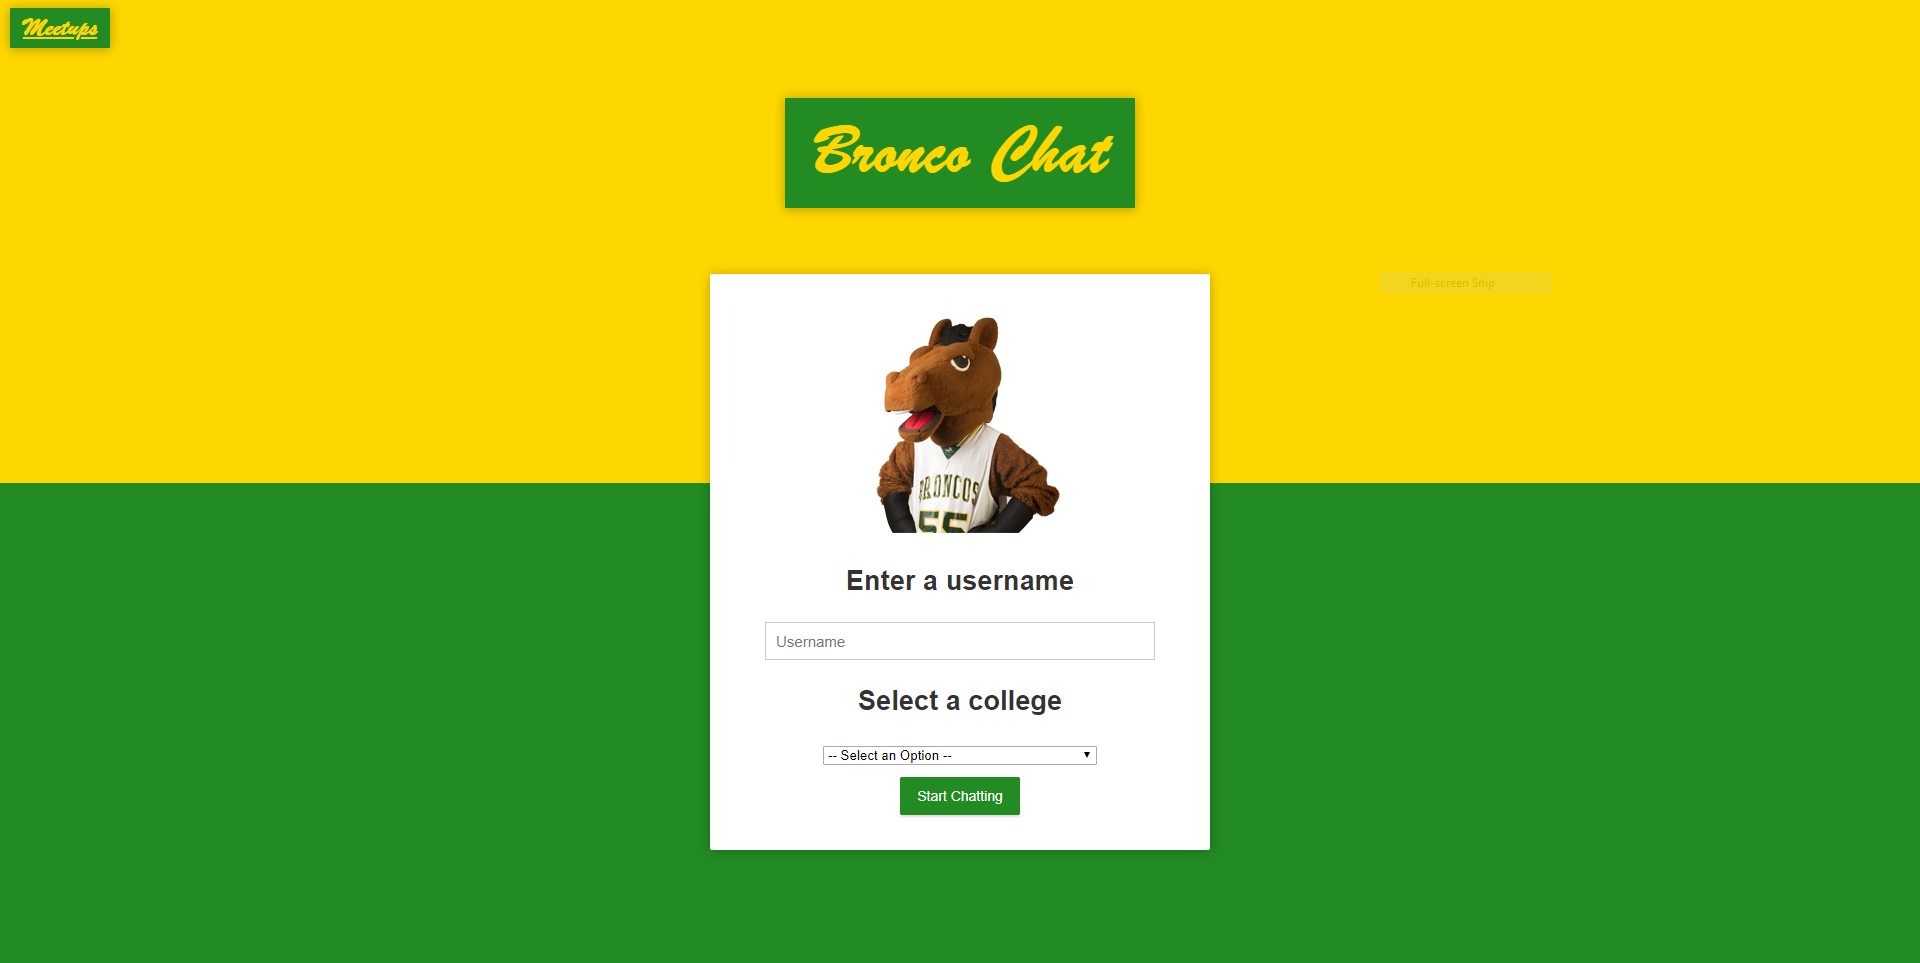
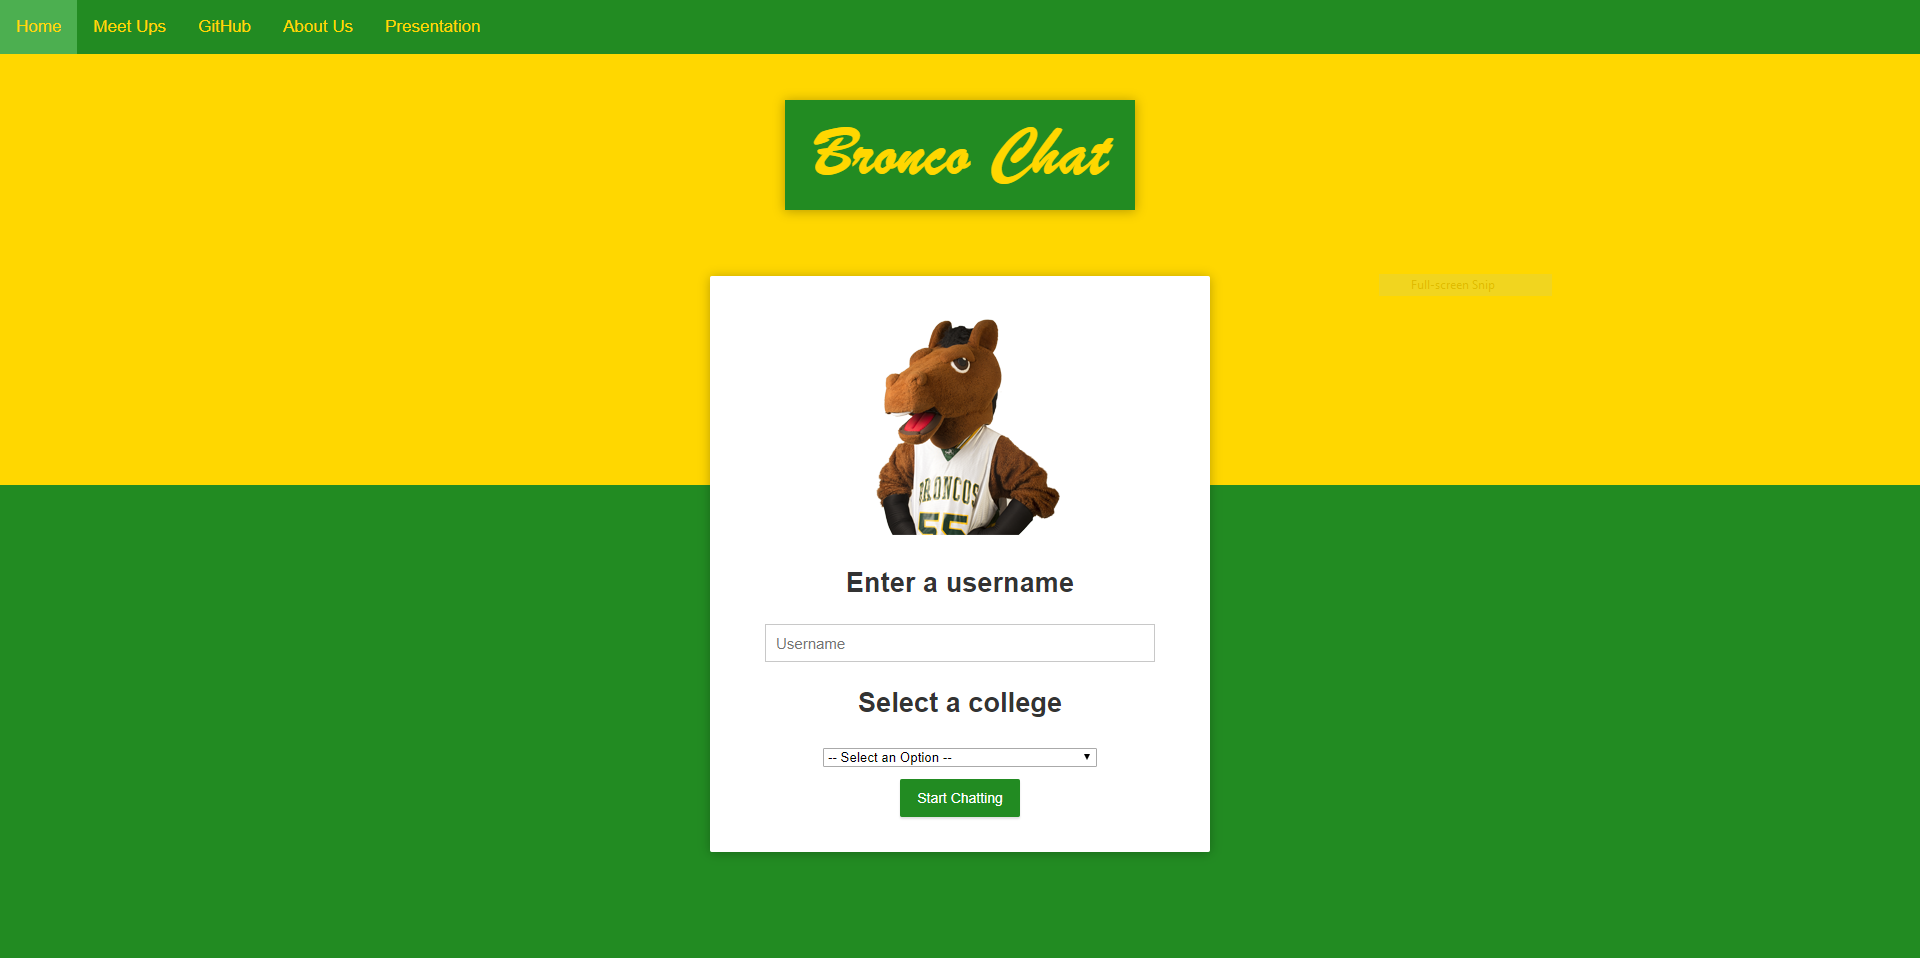
added topnav

diff --git a/src/main/resources/static/meetups.html b/src/main/resources/static/meetups.html
@@ -1,0 +1,62 @@
+<!DOCTYPE html>
+<html>
+	<head>
+		<meta name="viewport" content="width=device-width, initial-scale=1.0, minimum-scale=1.0">
+		<link rel="stylesheet" href="/css/meetups.css" />
+		<title>Meet Ups</title>
+	</head>
+
+<body>
+
+	<div class="topnavs">
+	  <a class="active" href="index.html">Home</a>
+	  <a href="meetups.html">Meet Ups</a>
+	  <a href="https://github.com/CS4800-Team-MAKER/ChatTest">GitHub</a>
+	  <a href="#about">About Us</a>
+	  <a href="https://docs.google.com/presentation/d/16hoy5OqIleoWL_yokoEcL4HXPscrsbv71Asb41t1P8o/edit?usp=sharing">Presentation</a>
+	</div>
+	
+	<div id="container">
+		<div id="header">
+			<h2>Bronco Chat Pomona Meet Ups</h2>
+		</div>
+		<div id="content">
+
+			<table cellpadding="4" cellspacing="0">
+				<!-- Table Head Row -->
+				<tr bgcolor="#DFDFDF">
+					<td align="center">Location</td>
+					<td align="center">Sign Ups</td>
+					<td align="center">Date</td>
+					<td align="center">Additional Comments</td>				
+				</tr>
+				<!-- Table Data Rows -->
+				<tr>
+					<td valign="top"><a href="#">Starbucks</a></td>
+					<td valign="top">10</td>
+					<td valign="top">12/4/19</td>
+					<td valign="top">CS 4800 hang out</td>
+				</tr>
+				<tr>
+					<td valign="top"><a href="#">Carls Jr.</a></td>
+					<td valign="top">14</td>
+					<td valign="top">12/14/19</td>
+					<td valign="top">Bring extra cups</td>
+				</tr>
+				<tr>
+					<td valign="top"><a href="#">Bldg. 8 301</a></td>
+					<td valign="top">6</td>
+					<td valign="top">11/24/19</td>
+					<td valign="top">Club meetup!</td>
+				</tr>
+		        <tr>
+					<td valign="top">Spot an error?</td>
+					<td valign="top"></td>
+					<td valign="top">Contact <a href="#">GitHub</a></td>
+				</tr>
+			</table>
+		</div>
+	</div>
+
+</body>
+</html>

diff --git a/src/main/resources/static/css/meetups.css b/src/main/resources/static/css/meetups.css
@@ -1,0 +1,61 @@
+* {
+    -webkit-box-sizing: border-box;
+    -moz-box-sizing: border-box;
+    box-sizing: border-box;
+}
+
+html,body {
+    height: 100%;
+    overflow: hidden;
+	margin: 0;
+	padding: 0;
+}
+
+.topnavs {
+	background-color: #228B22;
+	overflow: hidden;
+	position: relative;
+}
+
+.topnavs a {
+	float: left;
+	color: #FFD700;
+	text-align: center;
+	padding: 14px 16px;
+	text-decoration: none;
+	font-size: 17px;
+}
+
+.topnavs a:hover {
+	background-color: #ddd;
+	color: green;
+}
+
+.topnavs a.active {
+	background-color: #4CAF50;
+	color: gold;
+}
+/*
+body {
+    margin: 0;
+    padding: 0;
+    font-weight: 400;
+    font-family: "Helvetica Neue", Helvetica, Arial, sans-serif;
+    font-size: 1rem;
+    line-height: 1.58;
+    color: #333;
+    background-color: #228B22;
+    height: 100%;
+}
+
+body:before {
+    height: 50%;
+    width: 100%;
+    position: relative;
+    top: 0;
+    left: 0;
+    background: #FFD700;
+    content: "";
+    z-index: 0;
+}
+*/

diff --git a/src/main/resources/static/index.html b/src/main/resources/static/index.html
@@ -17,10 +17,19 @@
 		</div>
 	</div>
 	
+	<!--
 	<div id="meetups-page">
 		<div class="meetups-page-container">
 		<h1 class="title"><a href="https://www.cpp.edu/common/resources/img/billy_bronco_top10.png"style="color: #FFD700">Meetups</a></h1>
 		</div>
+	</div>
+	-->
+	<div class="topnav">
+	  <a class="active" href="index.html">Home</a>
+	  <a href="meetups.html">Meet Ups</a>
+	  <a href="https://github.com/CS4800-Team-MAKER/ChatTest">GitHub</a>
+	  <a href="#about">About Us</a>
+	  <a href="https://docs.google.com/presentation/d/16hoy5OqIleoWL_yokoEcL4HXPscrsbv71Asb41t1P8o/edit?usp=sharing">Presentation</a>
 	</div>
 
 

diff --git a/target/classes/static/index.html b/target/classes/static/index.html
@@ -17,10 +17,19 @@
 		</div>
 	</div>
 	
+	<!--
 	<div id="meetups-page">
 		<div class="meetups-page-container">
 		<h1 class="title"><a href="https://www.cpp.edu/common/resources/img/billy_bronco_top10.png"style="color: #FFD700">Meetups</a></h1>
 		</div>
+	</div>
+	-->
+	<div class="topnav">
+	  <a class="active" href="index.html">Home</a>
+	  <a href="meetups.html">Meet Ups</a>
+	  <a href="https://github.com/CS4800-Team-MAKER/ChatTest">GitHub</a>
+	  <a href="#about">About Us</a>
+	  <a href="https://docs.google.com/presentation/d/16hoy5OqIleoWL_yokoEcL4HXPscrsbv71Asb41t1P8o/edit?usp=sharing">Presentation</a>
 	</div>
 
 

diff --git a/src/main/resources/static/css/main.css b/src/main/resources/static/css/main.css
@@ -61,6 +61,33 @@ body:before {
     z-index: 0;
 }
 
+.topnav {
+	background-color: #228B22;
+	overflow: hidden;
+	position: relative;
+	margin-top: -210px;
+
+}
+
+.topnav a {
+	float: left;
+	color: #FFD700;
+	text-align: center;
+	padding: 14px 16px;
+	text-decoration: none;
+	font-size: 17px;
+}
+
+.topnav a:hover {
+	background-color: #ddd;
+	color: green;
+}
+
+.topnav a.active {
+	background-color: #4CAF50;
+	color: gold;
+}
+
 .clearfix:after {
     display: block;
     content: "";

diff --git a/target/classes/static/css/main.css b/target/classes/static/css/main.css
@@ -61,6 +61,33 @@ body:before {
     z-index: 0;
 }
 
+.topnav {
+	background-color: #228B22;
+	overflow: hidden;
+	position: relative;
+	margin-top: -210px;
+
+}
+
+.topnav a {
+	float: left;
+	color: #FFD700;
+	text-align: center;
+	padding: 14px 16px;
+	text-decoration: none;
+	font-size: 17px;
+}
+
+.topnav a:hover {
+	background-color: #ddd;
+	color: green;
+}
+
+.topnav a.active {
+	background-color: #4CAF50;
+	color: gold;
+}
+
 .clearfix:after {
     display: block;
     content: "";
